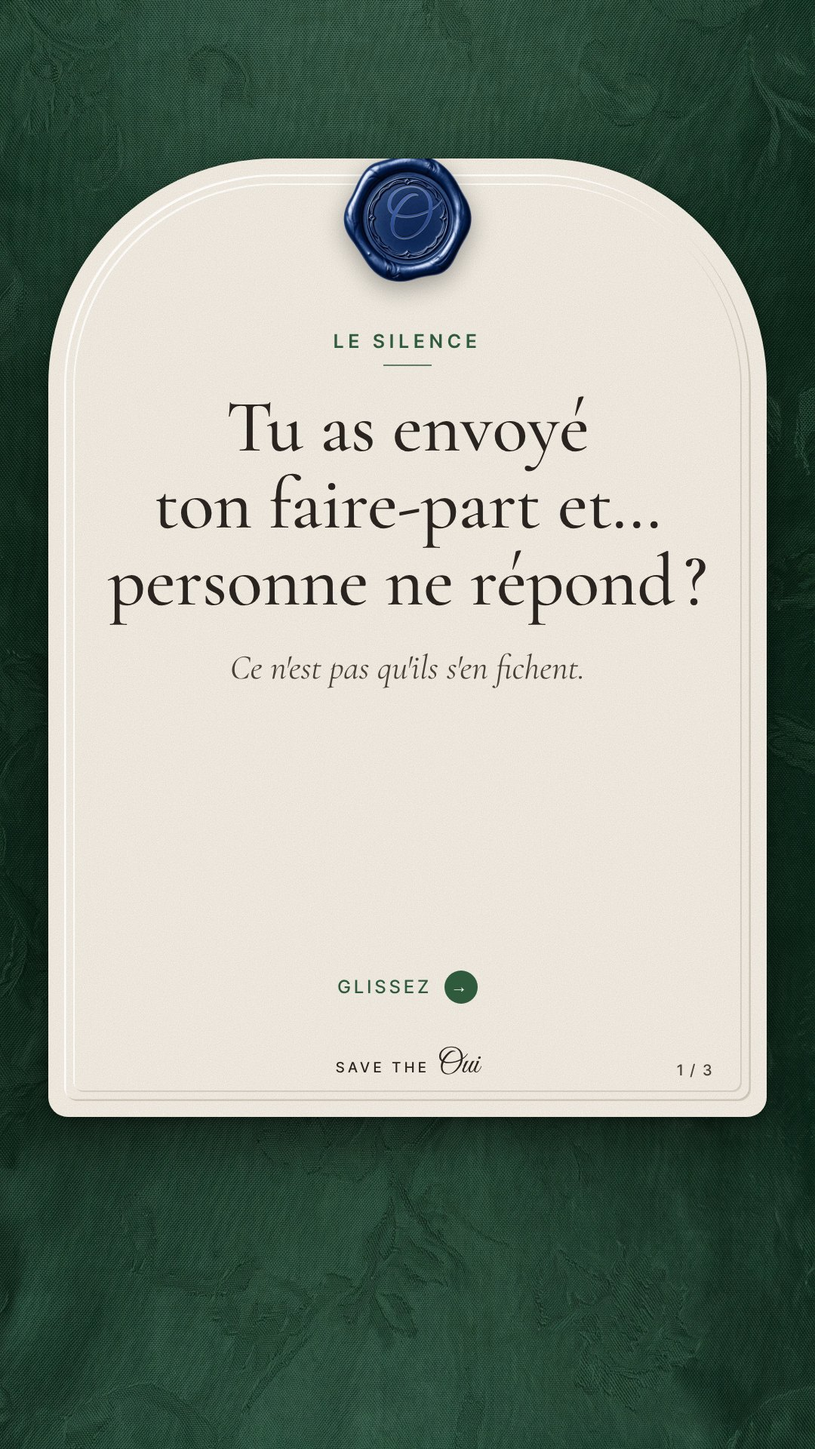
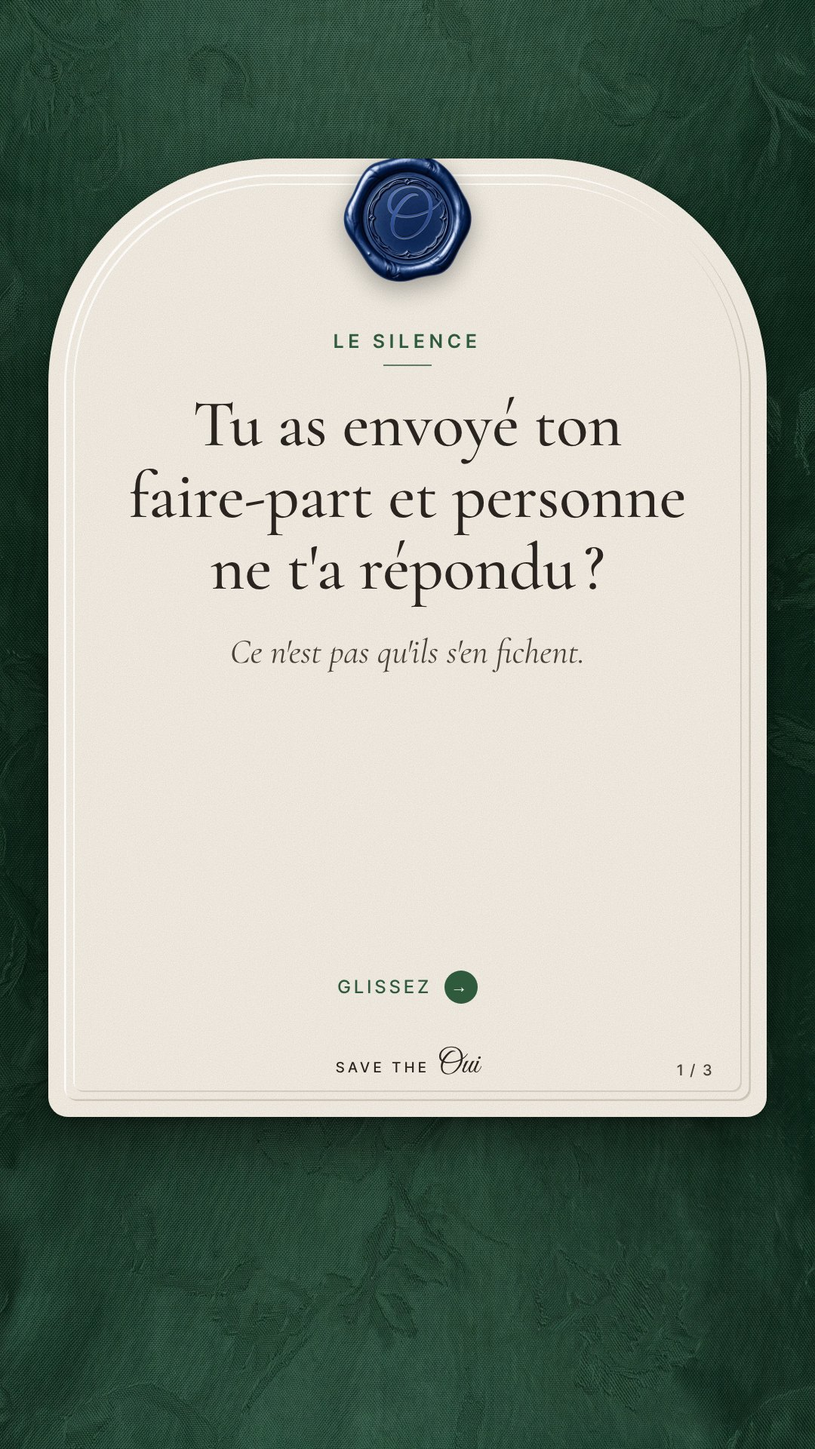
Pubs TikTok : trois posts dans le ton validé
Accroche = une phrase simple que la personne se dit, ou une liste ;
textes validés en chat avant le rendu. Les autres textes validés attendent
dans candidats.md. Règle notée dans CLAUDE.md.

Claude-Session: https://claude.ai/code/session_01Hwoi2iSdsehGpJdETQdhfU

Changed region(s): [[0.1528, 0.2812, 0.825, 0.4688], [0.1222, 0.4062, 0.1528, 0.4375]]

diff --git a/business/ads/tiktok-infos/render.js b/business/ads/tiktok-infos/render.js
@@ -7,7 +7,7 @@ const { chromium } = require('playwright'); const fs = require('fs'), path = req
   for (const f of files) {
     await pg.goto('file://' + path.join(here, 'html', f)); await pg.evaluate(() => document.fonts.ready); await pg.waitForTimeout(150);
     // titre d'accroche : chaque ligne voulue (<br>) doit tenir sur une ligne, on réduit la police jusqu'à ce que ce soit le cas
-    await pg.evaluate(() => { const h = document.querySelector('.hook h1'); if (!h) return; h.style.whiteSpace = 'nowrap';
+    await pg.evaluate(() => { const h = document.querySelector('.hook h1'); if (!h || !h.querySelector('br')) return; h.style.whiteSpace = 'nowrap';
       let fs = parseFloat(getComputedStyle(h).fontSize); while (h.scrollWidth > h.clientWidth && fs > 60) { fs -= 2; h.style.fontSize = fs + 'px'; }
       h.style.whiteSpace = ''; });
     const slug = f.replace(/-\d+\.html$/, ''); fs.mkdirSync(path.join(here, 'out', slug), { recursive: true });

diff --git a/business/ads/tiktok-infos/posts.py b/business/ads/tiktok-infos/posts.py
@@ -1,192 +1,57 @@
 # -*- coding: utf-8 -*-
-"""Posts TikTok informatifs (carrousels de 3 images). Angle (28 octobre 2026) : la personne se reconnaît dès la première
-image (« tu viens de te fiancer ? », « tu hésites entre papier et numérique ? », « les erreurs que j'ai faites »), on la
-tutoie, on lui parle comme une copine qui vient de se marier. Jamais de vente. theme = fond peint de la Carte, seal = cire.
-slides = [hook, contenu, à retenir]. Le « je » des posts « erreurs » et « ce que j'ai appris » est celui de la marque
-(le faire-part d'Inès & Jad est réel) : à relire par l'utilisateur, à garder vrai."""
+"""Posts TikTok informatifs (carrousels de 3 images). Trois posts pour commencer (28 octobre 2026 : « on va faire 3 TikTok,
+on va pas en faire 1000, on va voir ce que ça donne »). Ton validé par l'utilisateur : la première image est une phrase
+simple et complète que la personne se dit (« Tu as envoyé ton faire-part et personne ne t'a répondu ? »), ou une liste
+(« 5 erreurs à éviter », « 5 choses qui ont sauvé mon mariage ») ; tutoiement, mots simples, pas d'expression française
+(« failli tomber de ta chaise » refusé), pas de chiffre comme accroche (« tu as 150 noms » refusé), jamais de vente.
+Le texte se valide en chat AVANT tout rendu. Les autres textes validés attendent dans candidats.md.
+theme = fond peint de la Carte, seal = cire. slides = [hook, contenu, à retenir]."""
 
 POSTS = [
- dict(slug="fiances", theme="dolcevita", seal="terracotta",
-  caption="Tu viens de te fiancer ? Avant de parler faire-part, il y a 5 choses à poser. Dans cet ordre. #fiancailles #mariage2027 #futuremariee #organisationmariage #mariage #fiancée",
-  slides=[
-   dict(kind="hook", kicker="Félicitations", title="Tu viens<br>de te fiancer ?", sub="Les 5 choses à poser avant de parler faire-part. Dans cet ordre."),
-   dict(kind="list", kicker="Dans l'ordre", title="Avant le faire-part",
-        items=["Une saison, puis une date (même approximative).",
-               "La liste d'invités : c'est le nombre qui décide de tout le reste.",
-               "Le budget global, et ce qui compte vraiment pour vous deux.",
-               "Le lieu : c'est lui qui fixe la date définitive.",
-               "Et seulement ensuite, le faire-part."]),
-   dict(kind="tips", kicker="À retenir", title="Ce qu'on fait souvent à l'envers",
-        items=["Choisir le faire-part avant de savoir combien on invite.",
-               "Annoncer une date avant d'avoir le lieu : elle change une fois sur trois.",
-               "Promettre un +1 à tout le monde avant d'avoir compté."],
-        foot="Enregistre ce post, tu vas y revenir."),
-  ]),
- dict(slug="date-trouvee", theme="doucefrance", seal="sauge",
-  caption="Tu viens de trouver ta date de mariage ? Voilà quand envoyer ton faire-part (et quand ajouter deux mois). #mariage #mariage2027 #fairepart #organisationmariage #futuremariee #datedemariage",
-  slides=[
-   dict(kind="hook", kicker="Ça y est", title="Tu viens de trouver<br>ta date ?", sub="Voilà quand envoyer ton faire-part."),
-   dict(kind="steps", kicker="Le calendrier", title="Quatre dates à poser",
-        items=[("8 à 12 mois avant","Le save the date : la date et la ville, rien d'autre."),
-               ("3 à 4 mois avant","Le faire-part complet : lieux, horaires, comment répondre."),
-               ("4 à 6 semaines avant","La date limite de réponse, écrite dessus."),
-               ("1 semaine après","La relance, personnelle, à ceux qui n'ont pas répondu.")]),
-   dict(kind="tips", kicker="À retenir", title="Ajoute deux mois si…",
-        items=["Tu te maries en juillet ou en août : les vacances se réservent tôt.",
-               "Des invités vivent à l'étranger : billets, congés, parfois un visa.",
-               "Il y a plusieurs jours de fête : chacun s'organise."],
-        foot="Enregistre ce post pour le jour où ta mère demande « et les faire-part ? »."),
-  ]),
- dict(slug="papier-ou-numerique", theme="oldmoney", seal="bleu",
-  caption="Tu hésites entre faire-part papier et faire-part numérique ? Ce n'est pas l'un ou l'autre : le bon ratio. #fairepart #mariage #mariage2027 #fairepartmariage #organisationmariage #futuremariee",
-  slides=[
-   dict(kind="hook", kicker="La question", title="Papier<br>ou numérique ?", sub="Tu hésites. Spoiler : ce n'est pas l'un ou l'autre."),
-   dict(kind="steps", kicker="Le bon ratio", title="Ce que font la plupart des couples",
-        items=[("Le numérique pour tous","La date arrive tout de suite, l'adresse est cliquable, la réponse se fait en un geste. Même à l'étranger."),
-               ("Le papier pour quelques-uns","Les grands-parents, les parrains, ceux qui gardent tout dans une boîte : 10 à 30 exemplaires, pas 150."),
-               ("Les deux disent la même chose","Même texte, mêmes horaires, même date limite. Sinon, c'est le chaos.")]),
-   dict(kind="tips", kicker="À retenir", title="Choisis selon tes invités, pas selon toi",
-        items=["Beaucoup de famille loin ou à l'étranger : le numérique d'abord.",
-               "Une famille très traditionnelle : quelques papiers pour les aînés.",
-               "Un petit mariage de 50 personnes : le papier seul peut suffire."],
-        foot="Le faire-part sert à ce que les gens viennent. Le reste, c'est du goût."),
-  ]),
- dict(slug="mes-erreurs", theme="nuits", seal="or",
-  caption="Les 5 erreurs que j'ai faites sur mon faire-part de mariage (pour que tu ne les fasses pas). #mariage #fairepart #erreursmariage #mariage2027 #organisationmariage #futuremariee",
-  slides=[
-   dict(kind="hook", kicker="Vécu", title="Les erreurs<br>que j'ai faites<br>sur mon faire-part", sub="Pour que tu ne les fasses pas."),
-   dict(kind="list", kicker="Mes 5 erreurs", title="Je n'avais pas…",
-        items=["Écrit le jour de la semaine. « 12 juin », c'est un vendredi ? Un samedi ? Dix personnes ont demandé.",
-               "Mis l'adresse complète. « Domaine des Oliviers » ne suffit pas au GPS de tonton.",
-               "Fixé une date limite de réponse. Résultat : la moitié a répondu la dernière semaine.",
-               "Précisé qui était invité à quoi. Des cousins sont venus au henné sans y être attendus.",
-               "Relu à deux. Une coquille dans le nom de ma belle-mère. Imprimée."]),
-   dict(kind="tips", kicker="À retenir", title="Ce que je ferais aujourd'hui",
-        items=["Faire relire par quelqu'un qui n'est pas dans le projet.",
-               "Une date limite, et un seul moyen de répondre.",
-               "Un faire-part par foyer, qui dit à chacun où il est attendu."],
-        foot="Tu as fait une autre erreur ? Raconte-la en commentaire, ça aidera quelqu'un."),
-  ]),
- dict(slug="ce-que-jai-appris", theme="alhambra", seal="terracotta",
-  caption="Ce que mon faire-part de mariage m'a appris sur mes invités (et que j'aurais aimé savoir avant). #mariage #fairepart #mariage2027 #organisationmariage #futuremariee #vécu",
-  slides=[
-   dict(kind="hook", kicker="Vécu", title="Ce que mon faire-part<br>m'a appris", sub="Sur mes invités. J'aurais aimé le savoir avant."),
-   dict(kind="list", kicker="Cinq leçons", title="Les gens…",
-        items=["Ne lisent pas. Ils cherchent la date, l'adresse, et comment répondre.",
-               "Ne répondent pas sans date limite. Même ceux qui t'adorent.",
-               "Transfèrent ton faire-part : il circule bien au-delà de ta liste.",
-               "Demandent tous la même chose : « il y a un parking ? », « les enfants ? ».",
-               "Se souviennent de l'ambiance, pas du texte."]),
-   dict(kind="tips", kicker="À retenir", title="Donc",
-        items=["La date, l'adresse et « comment répondre » en premier, en grand.",
-               "Réponds aux questions avant qu'on te les pose : parking, enfants, tenue.",
-               "Fais quelque chose qui te ressemble. C'est ça qu'ils garderont."],
-        foot="Tu te maries bientôt ? Enregistre pour plus tard."),
-  ]),
- dict(slug="texte-qui-invite", theme="doucefrance", seal="bordeaux",
-  caption="Tu bloques sur le texte de ton faire-part ? Commence par la première phrase : qui invite. Les 3 formules, et les cas délicats. #fairepart #textefairepart #mariage #mariage2027 #organisationmariage #futuremariee",
-  slides=[
-   dict(kind="hook", kicker="Page blanche", title="Tu bloques<br>sur le texte ?", sub="Commence par la première phrase : qui invite."),
-   dict(kind="quotes", kicker="Les trois formules", title="Choisis la tienne",
-        items=[("Les parents invitent","« Monsieur et Madame Martin, Monsieur et Madame Rossi ont la joie de vous annoncer le mariage de leurs enfants Emma et Louis. »"),
-               ("Vous invitez","« Emma et Louis ont la joie de vous inviter à leur mariage. »"),
-               ("Ensemble","« Emma et Louis, entourés de leurs parents, seront heureux de vous accueillir. »")]),
-   dict(kind="tips", kicker="Les cas délicats", title="Trois situations",
-        items=["Parents séparés : chacun sur une ligne, sans « Monsieur et Madame ».",
-               "Un parent disparu : « Emma, fille de Claire Martin et de feu Jean Martin ».",
-               "Un parent qui paie et l'autre non : le faire-part n'est pas une facture. Nomme les deux."],
-        foot="Dans le doute, la formule « ensemble » ne froisse personne."),
-  ]),
  dict(slug="personne-ne-repond", theme="oldmoney", seal="bleu",
-  caption="Tu as envoyé ton faire-part et personne ne répond ? Ce n'est pas qu'ils s'en fichent. Les vraies raisons, et ce qui marche. #mariage #rsvp #fairepart #organisationmariage #mariage2027 #futuremariee",
+  caption="Tu as envoyé ton faire-part et personne ne t'a répondu ? Ce n'est pas qu'ils s'en fichent. Les vraies raisons, et ce qui marche. #mariage #fairepart #rsvp #organisationmariage #mariage2027 #futuremariee",
   slides=[
-   dict(kind="hook", kicker="Le silence", title="Tu as envoyé<br>ton faire-part et…<br>personne ne répond ?", sub="Ce n'est pas qu'ils s'en fichent."),
+   dict(kind="hook", kicker="Le silence", title="Tu as envoyé ton faire-part et personne ne t'a répondu ?", sub="Ce n'est pas qu'ils s'en fichent."),
    dict(kind="list", kicker="Les vraies raisons", title="Ils ne répondent pas parce que…",
-        items=["Ils ne savent pas comment : pas de numéro, pas de lien, pas de carton.",
-               "Il n'y a pas de date limite : « je réponds plus tard ».",
+        items=["Ils ne savent pas comment répondre : pas de numéro, pas de lien, pas de carton.",
+               "Il n'y a pas de date limite, donc « plus tard ».",
                "Ils attendent de savoir pour les enfants ou pour leur +1.",
                "Ils pensent que tu sais déjà qu'ils viennent."]),
    dict(kind="tips", kicker="Ce qui marche", title="Quatre réflexes",
-        items=["Une date limite claire, écrite sur le faire-part.",
-               "Un seul geste pour répondre : un lien, un numéro, un carton. Pas trois.",
-               "Demande le menu en même temps : ça force à répondre.",
-               "Une relance personnelle, une semaine après la date limite. Pas un message groupé."],
-        foot="En général, un invité sur cinq répond seulement après une relance."),
+        items=["Une date limite écrite sur le faire-part.",
+               "Une seule façon de répondre, pas trois.",
+               "Demander le menu en même temps.",
+               "Une relance en message privé, pas dans un groupe."],
+        foot="Enregistre ce post pour le jour où tu relances."),
   ]),
- dict(slug="combien-viendront", theme="nuits", seal="or",
-  caption="Tu as 150 noms sur ta liste : combien vont vraiment venir ? Les proportions qu'on observe, pour dimensionner la salle sans se tromper. #mariage #listeinvites #mariage2027 #organisationmariage #budgetmariage #futuremariee",
+ dict(slug="5-erreurs", theme="doucefrance", seal="sauge",
+  caption="Tu prépares ton mariage ? Les 5 erreurs à éviter sur ton faire-part. #mariage #fairepart #mariage2027 #organisationmariage #futuremariee #erreursaeviter",
   slides=[
-   dict(kind="hook", kicker="La liste", title="Tu as 150 noms :<br>combien vont<br>vraiment venir ?", sub="Les proportions qu'on observe, pour la salle et le traiteur."),
-   dict(kind="steps", kicker="En général", title="Ce qu'on observe",
-        items=[("Famille proche et amis du coin","9 sur 10 viennent. Prévois-les tous."),
-               ("Invités à plus de 3 heures de route","7 sur 10. Les autres s'excusent dans les derniers jours."),
-               ("Invités à l'étranger","1 sur 2, parfois moins : billets, congés, visas."),
-               ("Collègues et connaissances","1 sur 2. Et ils répondent en dernier.")]),
-   dict(kind="tips", kicker="À retenir", title="Pour ne pas te tromper",
-        items=["Compte environ 80 % de ta liste pour la salle, et confirme le chiffre au traiteur après les réponses.",
-               "Une liste d'attente de 10 à 15 personnes, invitées dès les premiers « non ».",
-               "Demande la réponse par personne, pas par foyer : tu sauras vraiment."],
-        foot="Ce sont des ordres de grandeur. Ta date, ta saison et ta famille changent tout."),
+   dict(kind="hook", kicker="Tu prépares ton mariage ?", title="Les 5 erreurs à éviter sur ton faire-part", sub="Celles qu'on voit sur un faire-part sur deux."),
+   dict(kind="list", kicker="Les 5 erreurs", title="À éviter",
+        items=["Oublier le jour de la semaine : « 12 juin », c'est un vendredi ou un samedi ?",
+               "Mettre le nom du lieu sans l'adresse.",
+               "Ne pas mettre de date limite pour répondre.",
+               "Ne pas dire qui est invité à quoi.",
+               "Ne pas faire relire : une faute dans un prénom, imprimée 150 fois."]),
+   dict(kind="tips", kicker="À retenir", title="Avant d'envoyer",
+        items=["Fais relire ton faire-part par quelqu'un qui n'est pas dans le projet.",
+               "Il verra ce que tu ne vois plus."],
+        foot="Tu as fait une autre erreur ? Raconte-la en commentaire, ça aidera quelqu'un."),
   ]),
- dict(slug="enfants-plus-un", theme="dolcevita", seal="bleu",
-  caption="Mariage sans enfants ? Invités avec ou sans +1 ? Comment le dire sur ton faire-part, clairement et sans drame. #mariage #fairepart #mariage2027 #mariagesansenfants #organisationmariage #futuremariee",
+ dict(slug="5-choses", theme="nuits", seal="or",
+  caption="5 choses que j'ai mises dans mon faire-part et qui ont sauvé mon mariage. #mariage #fairepart #mariage2027 #organisationmariage #futuremariee #astucesmariage",
   slides=[
-   dict(kind="hook", kicker="Délicat", title="Sans enfants ?<br>Avec ou sans +1 ?", sub="Comment le dire, clairement et sans drame."),
-   dict(kind="quotes", kicker="Les enfants", title="Trois façons de le dire",
-        items=[("Sans enfants","« Nous avons choisi une journée entre adultes. Nous comptons sur votre compréhension. »"),
-               ("Jusqu'à une heure","« Les enfants sont les bienvenus à la cérémonie et au dîner ; la soirée est réservée aux adultes. »"),
-               ("Bienvenus","« Vos enfants sont les bienvenus, dites-nous combien ils sont pour le menu. »")]),
-   dict(kind="tips", kicker="Le +1", title="La règle qui évite tout",
-        items=["Nomme chaque personne invitée. « Sarah » n'inclut pas « et son ami ».",
-               "Si un +1 est offert, écris-le : « Sarah et la personne de son choix ».",
-               "Dans la réponse, demande « qui vient » plutôt que « combien »."],
-        foot="Une invitation nominative, et plus personne ne devine."),
-  ]),
- dict(slug="dress-code", theme="alhambra", seal="terracotta",
-  caption="Tu veux un dress code sans vexer personne ? Les phrases qui marchent, celles qui piquent. #mariage #dresscode #fairepart #mariage2027 #tenuemariage #futuremariee",
-  slides=[
-   dict(kind="hook", kicker="La tenue", title="Tu veux un dress code<br>sans vexer personne ?", sub="Les mots qui marchent, ceux qui piquent."),
-   dict(kind="list", kicker="Les formules", title="Quatre phrases qui marchent",
-        items=["« Tenue de cérémonie » : costume et robe longue, tout le monde comprend.",
-               "« Chic et élégant » : costume, robe de cocktail, sans obligation de longueur.",
-               "« Tenue estivale chic » : lin, couleurs claires, pas de cravate.",
-               "« Le blanc est réservé à la mariée » : une seule consigne de couleur, la bonne."]),
-   dict(kind="tips", kicker="Les erreurs", title="Trois phrases à éviter",
-        items=["« Pas de jean, pas de baskets » : ça sonne comme un reproche.",
-               "Imposer une couleur précise à tout le monde : la moitié rachète une tenue.",
-               "Oublier le terrain : « talons déconseillés, cérémonie dans l'herbe » évite les chevilles tordues."],
-        foot="Une consigne, pas une liste. Tes invités veulent te faire plaisir."),
-  ]),
- dict(slug="trois-jours", theme="nuits", seal="or",
-  caption="Henné, mairie, salle : tu as trois jours de fête et une seule liste d'invités ? Comment dire à chacun où il est attendu. #mariage #henné #mariagemarocain #mariagealgerien #mariageoriental #mariage2027 #fairepart",
-  slides=[
-   dict(kind="hook", kicker="Henné, mairie, salle", title="Trois jours de fête,<br>une seule liste ?", sub="Tout le monde n'est pas invité à tout. Et c'est normal."),
-   dict(kind="steps", kicker="Trois moments", title="Qui est attendu où",
-        items=[("Le henné","La famille proche et les amies de la mariée. Souvent la veille, à la maison ou dans une salle."),
-               ("La mairie","Le petit comité : témoins, parents, frères et sœurs. En semaine, parfois des semaines avant."),
-               ("La salle","Tout le monde. C'est la date que la famille au pays retient.")]),
-   dict(kind="tips", kicker="Sur le faire-part", title="Ce qui évite les malentendus",
-        items=["Un moment par écran ou par ligne, avec sa date, son heure et son adresse.",
-               "Dis à qui s'adresse chaque moment : « famille et proches », « tous nos invités ».",
-               "Pour la famille à l'étranger, envoie la date de la salle en premier : le voyage se prévoit tôt.",
-               "Un faire-part par foyer, pas un message copié dans un groupe : chacun sait qu'il est attendu."],
-        foot="Trois jours de fête, zéro « mais on était invités ? »."),
-  ]),
- dict(slug="cout-papier", theme="doucefrance", seal="sauge",
-  caption="Tu as 150 invités et tu penses au faire-part papier ? Le vrai calcul, timbres compris, avant de signer le devis. #mariage #budgetmariage #fairepart #mariage2027 #organisationmariage #futuremariee",
-  slides=[
-   dict(kind="hook", kicker="Budget", title="150 invités,<br>faire-part papier :<br>tu as fait le calcul ?", sub="Timbres compris. Avant de signer le devis."),
-   dict(kind="table", kicker="Le calcul", title="Ce que ça coûte",
-        rows=[("Impression","150 × 2 à 4 €","300 à 600 €"),
-              ("Enveloppes et timbres","150 × 1,40 €","≈ 210 €"),
-              ("Carton réponse + enveloppe retour timbrée","150 × 1,40 €","≈ 210 €"),
-              ("Exemplaires de secours","+ 10 %","≈ 70 €")],
-        total=("Au total","800 à 1 100 €")),
-   dict(kind="tips", kicker="Ce qu'on oublie", title="Et ce qui n'est pas sur le devis",
-        items=["Écrire 150 adresses à la main (un week-end entier).",
-               "Les réimpressions : une adresse qui change, une coquille.",
-               "Les invités à l'étranger : un timbre à 2 € et dix jours de poste.",
-               "Les cartons réponse qui ne reviennent jamais."],
-        foot="Papier ou pas, mets-le dans le budget dès le début."),
+   dict(kind="hook", kicker="Vécu", title="5 choses que j'ai mises dans mon faire-part et qui ont sauvé mon mariage", sub=""),
+   dict(kind="list", kicker="Les 5 choses", title="Ce qui m'a sauvée",
+        items=["Le lien vers l'itinéraire : personne ne m'a appelée pour l'adresse.",
+               "Le choix du menu dans la réponse : le traiteur a eu ses chiffres tout de suite.",
+               "Un numéro WhatsApp pour répondre : mes tantes ont répondu en une minute.",
+               "La date limite de réponse : j'ai pu relancer sans gêne.",
+               "Le programme de la journée : plus de « ça commence à quelle heure ? »."]),
+   dict(kind="tips", kicker="À retenir", title="Un faire-part, ce n'est pas que joli",
+        items=["C'est ce qui évite les cinquante messages de la dernière semaine.",
+               "Mets-y tout ce qu'on va te demander : l'adresse, l'heure, le menu, comment répondre."],
+        foot="Enregistre ce post pour quand tu écriras le tien."),
   ]),
 ]

diff --git a/business/ads/tiktok-infos/build.py b/business/ads/tiktok-infos/build.py
@@ -36,7 +36,7 @@ html,body{width:1080px;height:1920px;overflow:hidden;background:#111}
 .k::after{content:"";display:block;width:64px;height:2px;background:var(--ac);margin:18px auto 0;opacity:.75}
 h1{font-weight:500;font-size:68px;line-height:1.08;text-align:center;margin-top:26px;letter-spacing:-.005em;text-wrap:balance}
 .hook .in{justify-content:center;top:230px;bottom:150px}
-.hook h1{font-size:100px;line-height:1.04;margin-top:30px}
+.hook h1{font-size:88px;line-height:1.08;margin-top:30px}
 .hook .sub{font:italic 400 46px/1.3 "Cormorant Garamond",serif;text-align:center;margin-top:34px;color:#4a403a;text-wrap:balance}
 .hook .go{margin-top:auto;display:flex;align-items:center;justify-content:center;gap:16px;font:500 24px/1 "Inter Tight",sans-serif;letter-spacing:.2em;text-transform:uppercase;color:var(--ac)}
 .hook .go i{width:44px;height:44px;border-radius:50%;background:var(--ac);color:#fff;display:grid;place-items:center;font:normal 22px/1 sans-serif}
@@ -76,7 +76,7 @@ def slide_html(post, s, i, n):
     T = lambda x: typo(x) if isinstance(x, str) else tuple(typo(y) for y in x)
     parts = [f'<div class="k">{s["kicker"]}</div>', f'<h1>{s["title"]}</h1>']
     if kind == 'hook':
-        parts.append(f'<p class="sub">{s["sub"]}</p>')
+        parts.append(f'<p class="sub">{s["sub"]}</p>' if s.get('sub') else '')
         parts.append('<div class="go">Glissez <i>→</i></div>')
     elif kind == 'list':
         parts.append('<ol class="body list">' + ''.join(f'<li><i>{j+1}</i><span>{t}</span></li>' for j, t in enumerate(map(T, s['items']))) + '</ol>')

diff --git a/business/ads/tiktok-infos/LISEZMOI.md b/business/ads/tiktok-infos/LISEZMOI.md
@@ -1,8 +1,10 @@
 # TikTok : posts informatifs (carrousels de 3 images)
 
 Des posts fixes qui **donnent une info utile** aux futurs mariés, sans vendre : la page ne doit pas être qu'une suite de pubs.
-**Angle (28 octobre 2026)** : la personne se reconnaît dès la première image (« tu viens de te fiancer ? », « papier ou
-numérique ? », « les erreurs que j'ai faites »), on la tutoie, on lui parle comme une copine qui vient de se marier.
+**Ton validé (28 octobre 2026)** : la première image est une phrase simple et complète que la personne se dit (« Tu as envoyé
+ton faire-part et personne ne t'a répondu ? ») ou une liste (« Les 5 erreurs à éviter », « 5 choses qui ont sauvé mon
+mariage ») ; tutoiement, mots simples, pas d'expression, pas de chiffre comme accroche, jamais de vente. **Le texte se valide
+en chat avant tout rendu.** On commence par trois posts ; les autres textes validés attendent dans `candidats.md`.
 Chaque post = 3 images 1080 × 1920 (`out/<post>/`) : 1) l'accroche, 2) le contenu, 3) « à retenir ». Le texte tient dans une
 feuille de papier (comme la Carte), posée sur le fond peint d'un univers, sceau de cire, signature « Save The Oui » discrète.
 La zone basse (légende, boutons TikTok) et le bord droit restent libres.
@@ -21,25 +23,9 @@ l'encre et des accents ≥ 4,5:1 sur le papier le plus sombre.
 
 | Dossier | Univers | Légende |
 |---|---|---|
-| `out/fiances/` | dolcevita | Tu viens de te fiancer ? Avant de parler faire-part, il y a 5 choses à poser. Dans cet ordre. #fiancailles #mariage2027 #futuremariee #organisationmariage #mariage #fiancée |
-| `out/date-trouvee/` | doucefrance | Tu viens de trouver ta date de mariage ? Voilà quand envoyer ton faire-part (et quand ajouter deux mois). #mariage #mariage2027 #fairepart #organisationmariage #futuremariee #datedemariage |
-| `out/papier-ou-numerique/` | oldmoney | Tu hésites entre faire-part papier et faire-part numérique ? Ce n'est pas l'un ou l'autre : le bon ratio. #fairepart #mariage #mariage2027 #fairepartmariage #organisationmariage #futuremariee |
-| `out/mes-erreurs/` | nuits | Les 5 erreurs que j'ai faites sur mon faire-part de mariage (pour que tu ne les fasses pas). #mariage #fairepart #erreursmariage #mariage2027 #organisationmariage #futuremariee |
-| `out/ce-que-jai-appris/` | alhambra | Ce que mon faire-part de mariage m'a appris sur mes invités (et que j'aurais aimé savoir avant). #mariage #fairepart #mariage2027 #organisationmariage #futuremariee #vécu |
-| `out/texte-qui-invite/` | doucefrance | Tu bloques sur le texte de ton faire-part ? Commence par la première phrase : qui invite. Les 3 formules, et les cas délicats. #fairepart #textefairepart #mariage #mariage2027 #organisationmariage #futuremariee |
-| `out/personne-ne-repond/` | oldmoney | Tu as envoyé ton faire-part et personne ne répond ? Ce n'est pas qu'ils s'en fichent. Les vraies raisons, et ce qui marche. #mariage #rsvp #fairepart #organisationmariage #mariage2027 #futuremariee |
-| `out/combien-viendront/` | nuits | Tu as 150 noms sur ta liste : combien vont vraiment venir ? Les proportions qu'on observe, pour dimensionner la salle sans se tromper. #mariage #listeinvites #mariage2027 #organisationmariage #budgetmariage #futuremariee |
-| `out/enfants-plus-un/` | dolcevita | Mariage sans enfants ? Invités avec ou sans +1 ? Comment le dire sur ton faire-part, clairement et sans drame. #mariage #fairepart #mariage2027 #mariagesansenfants #organisationmariage #futuremariee |
-| `out/dress-code/` | alhambra | Tu veux un dress code sans vexer personne ? Les phrases qui marchent, celles qui piquent. #mariage #dresscode #fairepart #mariage2027 #tenuemariage #futuremariee |
-| `out/trois-jours/` | nuits | Henné, mairie, salle : tu as trois jours de fête et une seule liste d'invités ? Comment dire à chacun où il est attendu. #mariage #henné #mariagemarocain #mariagealgerien #mariageoriental #mariage2027 #fairepart |
-| `out/cout-papier/` | doucefrance | Tu as 150 invités et tu penses au faire-part papier ? Le vrai calcul, timbres compris, avant de signer le devis. #mariage #budgetmariage #fairepart #mariage2027 #organisationmariage #futuremariee |
-
-## Ordre conseillé (en alternance avec les vidéos : une pub, un post utile)
-
-fiances → date-trouvee → papier-ou-numerique → mes-erreurs → personne-ne-repond → texte-qui-invite → combien-viendront →
-ce-que-jai-appris → enfants-plus-un → dress-code → trois-jours → cout-papier.
-Les posts « mes-erreurs » et « ce-que-jai-appris » parlent en « je » : c'est la voix de la marque (le faire-part d'Inès & Jad est
-réel) ; à relire et à garder vrai.
+| `out/personne-ne-repond/` | oldmoney | Tu as envoyé ton faire-part et personne ne t'a répondu ? Ce n'est pas qu'ils s'en fichent. Les vraies raisons, et ce qui marche. #mariage #fairepart #rsvp #organisationmariage #mariage2027 #futuremariee |
+| `out/5-erreurs/` | doucefrance | Tu prépares ton mariage ? Les 5 erreurs à éviter sur ton faire-part. #mariage #fairepart #mariage2027 #organisationmariage #futuremariee #erreursaeviter |
+| `out/5-choses/` | nuits | 5 choses que j'ai mises dans mon faire-part et qui ont sauvé mon mariage. #mariage #fairepart #mariage2027 #organisationmariage #futuremariee #astucesmariage |
 
 ## Publier depuis Claude (connecteur Higgsfield)
 

diff --git a/business/ads/tiktok-infos/candidats.md b/business/ads/tiktok-infos/candidats.md
@@ -1,0 +1,15 @@
+# Textes validés, en attente (28 octobre 2026)
+
+Même ton que les trois premiers posts : une phrase simple que la personne se dit, tutoiement, pas d'expression, pas de
+chiffre en accroche. À passer dans `posts.py` quand on en ajoute.
+
+- Tu viens de te fiancer et tu te demandes comment envoyer ton faire-part ? → dans l'ordre : une date même approximative ; la liste des invités (c'est le nombre qui décide de tout) ; le lieu (c'est lui qui fixe la date) ; et seulement après, le faire-part. À retenir : la liste d'abord, le faire-part ensuite.
+- Tu as ta date de mariage et tu ne sais pas quand envoyer ton faire-part ? → 8 à 12 mois avant le save the date ; 3 à 4 mois avant le faire-part complet ; 4 à 6 semaines avant la date limite ; 1 semaine après, la relance en privé. Ajoute deux mois si : juillet-août, invités à l'étranger, plusieurs jours de fête.
+- Tu hésites entre un faire-part papier et un faire-part numérique ? → le numérique pour tout le monde ; le papier pour quelques personnes (10 à 30, pas 150) ; les deux disent la même chose. À retenir : choisis selon tes invités, pas selon toi.
+- Tu ne sais pas comment dire que ton mariage est sans enfants ? → trois formules (sans enfants / jusqu'à une heure / bienvenus). À retenir : sur le faire-part, pas en privé après ; la même règle pour tous.
+- Pourquoi mettre un dress code à ton mariage ? → tes invités ne se posent plus la question ; les photos ; personne en blanc ; pas de talons dans l'herbe. Comment l'écrire : une phrase, jamais « pas de jean ».
+- Tu ne sais pas quoi écrire sur ton faire-part ? → les 6 infos ; la première phrase (parents / vous / ensemble).
+- Tu ne sais pas combien de tes invités vont vraiment venir ? → proches presque tous ; loin 7 sur 10 ; étranger 1 sur 2 ; collègues 1 sur 2. À retenir : 80 % de la liste pour la salle, liste d'attente, réponse par personne.
+- Tu as un henné, une mairie et une salle, et tu ne sais pas qui inviter à quoi ? → henné / mairie / salle ; sur le faire-part : un moment par ligne, à qui il s'adresse, la salle en premier pour l'étranger, un faire-part par famille.
+- Tu ne sais pas si tu dois inviter avec un +1 ? → couples toujours ; célibataires qui ne connaîtront personne si tu peux ; les autres sans ; nommer chaque personne. À retenir : si tu l'offres, écris-le ; sinon rien, et pareil pour tous.
+- Combien coûte vraiment un faire-part papier ? → pour 150 invités : impression 300 à 600 €, timbres ≈ 210 €, carton réponse ≈ 210 €, secours ≈ 70 € ; total 800 à 1 100 €. Ce qui n'est pas sur le devis : les adresses à la main, les réimpressions, l'étranger, les cartons qui ne reviennent pas.

diff --git a/CLAUDE.md b/CLAUDE.md
@@ -695,9 +695,15 @@ faire-part, vitrine, aperçus, images d'aperçu WhatsApp (og.jpg), images géné
     sans vendre : la feuille de papier de la Carte sur le fond peint d'un univers, sceau, signature discrète. Textes dans
     `posts.py`, images par `build.py` + `render.js` ; à alterner avec les pubs (une pub, un post utile).
     **La personne doit se reconnaître dès la première image** (même jour, « il faut que ça soit vraiment inclusif ») : la
-    première image est une situation (« tu viens de te fiancer ? », « tu as trouvé ta date ? », « papier ou numérique ? »,
-    « personne ne répond ? ») ou un vécu (« les erreurs que j'ai faites », « ce que mon faire-part m'a appris »), on tutoie,
-    on parle comme une copine qui vient de se marier. Pas de titre générique (« Les 7 infos d'un faire-part »).
+    première image est **une phrase simple et complète** que la personne se dit (« Tu as envoyé ton faire-part et personne
+    ne t'a répondu ? », « Tu hésites entre un faire-part papier et un faire-part numérique ? ») ou une liste (« Les 5 erreurs
+    à éviter sur ton faire-part », « 5 choses que j'ai mises dans mon faire-part et qui ont sauvé mon mariage »). Tutoiement,
+    mots simples. Refusés : un titre générique (« Les 7 infos d'un faire-part »), un chiffre comme accroche (« Tu as 150
+    noms », « ça veut rien dire »), une accroche inventée (« tout le monde te demande déjà la date », « c'est faux »), les
+    expressions (« failli tomber de ta chaise », « on reste très simple »), un mot télégraphique (« Papier ou numérique ? »).
+    **Le texte (accroches, puis les trois images) se valide en chat avant tout rendu** (« avant d'envoyer tes trucs, il faut
+    valider l'angle »). On commence petit : trois posts, on regarde ce que ça donne (`candidats.md` garde les textes validés
+    en attente).
     Publication : le connecteur Higgsfield relie le compte TikTok (lien à ouvrir une fois) et dépose le carrousel dans les
     brouillons de l'application (`UPLOAD_TO_DRAFT`) : l'utilisateur n'a plus qu'à appuyer sur Publier.
 
